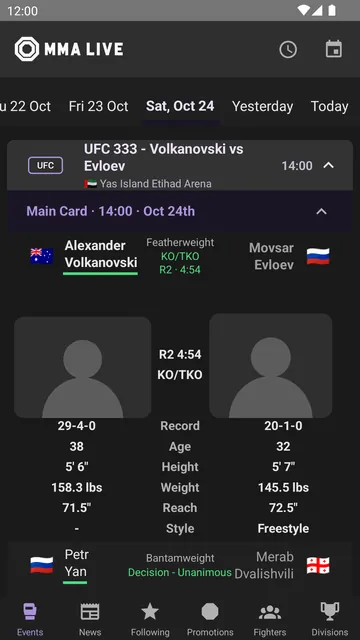
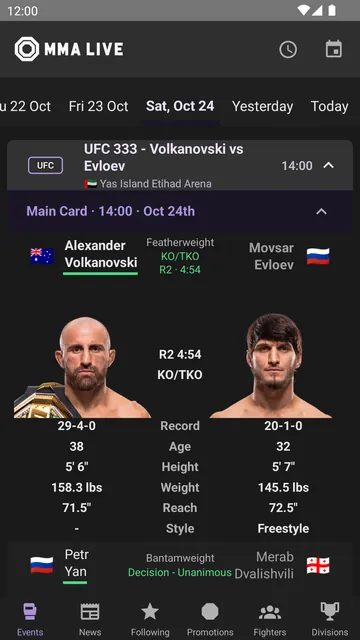
Gallery: use Kris's requested Play screenshots with real fighter photos (02, 07)

Changed region(s): [[0.0306, 0.4688, 0.4278, 0.6562], [0.5806, 0.4688, 0.9167, 0.6562]]

diff --git a/index.html b/index.html
@@ -111,7 +111,7 @@
             <img src="/assets/screens/01-events-results-360.webp" srcset="/assets/screens/01-events-results-360.webp 360w, /assets/screens/01-events-results-720.webp 720w" sizes="(max-width: 600px) 62vw, 240px" width="360" height="640" loading="lazy" decoding="async" alt="Events tab showing UFC 333 results by day, with each bout's winner, method and round">
           </li>
           <li class="shot">
-            <img src="/assets/screens/02-bout-details-360.webp" srcset="/assets/screens/02-bout-details-360.webp 360w, /assets/screens/02-bout-details-720.webp 720w" sizes="(max-width: 600px) 62vw, 240px" width="360" height="640" loading="lazy" decoding="async" alt="Bout details for Volkanovski vs Evloev, comparing record, age, height, weight and reach">
+            <img src="/assets/screens/02-bout-details-360.webp" srcset="/assets/screens/02-bout-details-360.webp 360w, /assets/screens/02-bout-details-720.webp 720w" sizes="(max-width: 600px) 62vw, 240px" width="360" height="640" loading="lazy" decoding="async" alt="Bout details for Volkanovski vs Evloev with both fighters' photos, comparing record, age, height, weight and reach">
           </li>
           <li class="shot">
             <img src="/assets/screens/03-fighters-360.webp" srcset="/assets/screens/03-fighters-360.webp 360w, /assets/screens/03-fighters-720.webp 720w" sizes="(max-width: 600px) 62vw, 240px" width="360" height="640" loading="lazy" decoding="async" alt="Fighters tab searching for &quot;Alex&quot;, with Follow buttons next to each fighter">
@@ -126,7 +126,7 @@
             <img src="/assets/screens/06-promotions-360.webp" srcset="/assets/screens/06-promotions-360.webp 360w, /assets/screens/06-promotions-720.webp 720w" sizes="(max-width: 600px) 62vw, 240px" width="360" height="640" loading="lazy" decoding="async" alt="Promotions tab listing PFL, M-1 Global, ACA and UFC with their next events">
           </li>
           <li class="shot">
-            <img src="/assets/screens/07-following-fighters-360.webp" srcset="/assets/screens/07-following-fighters-360.webp 360w, /assets/screens/07-following-fighters-720.webp 720w" sizes="(max-width: 600px) 62vw, 240px" width="360" height="640" loading="lazy" decoding="async" alt="Following tab with followed fighters shown as cards above a fighter search">
+            <img src="/assets/screens/07-following-fighters-360.webp" srcset="/assets/screens/07-following-fighters-360.webp 360w, /assets/screens/07-following-fighters-720.webp 720w" sizes="(max-width: 600px) 62vw, 240px" width="360" height="640" loading="lazy" decoding="async" alt="Following tab with photo cards for followed fighters Alexa Grasso and Alexander Gustafsson above a fighter search">
           </li>
           <li class="shot">
             <img src="/assets/screens/08-following-promotions-360.webp" srcset="/assets/screens/08-following-promotions-360.webp 360w, /assets/screens/08-following-promotions-720.webp 720w" sizes="(max-width: 600px) 62vw, 240px" width="360" height="640" loading="lazy" decoding="async" alt="Following tab with followed promotions RIZIN, ONE and PFL and their next events">

diff --git a/README.md b/README.md
@@ -9,7 +9,7 @@ index.html          the page (store-link config is at the bottom, in STORE_LINKS
 styles.css          dark theme using the app's palette (mma-live-frontend app/theme/colors.ts)
 404.html            not-found page (GitHub Pages serves it automatically)
 assets/             app icon (copied from mma-live-frontend store-assets/icons), apple-touch icon, OG image
-assets/screens/     Google Play phone screenshots as WebP, 360w and 720w (source: /workspace/mma-design/play-store, IP-safe set)
+assets/screens/     Google Play phone screenshots as WebP, 360w and 720w (source: /workspace/mma-design/play-store/phone/listing/01-08, the Play phone set with real fighter photos in 02 and 07)
 favicon.ico
 robots.txt, sitemap.xml
 CNAME               mma-live.com (custom domain for GitHub Pages)
